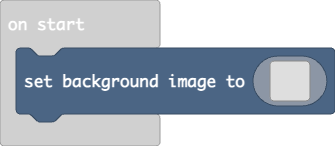
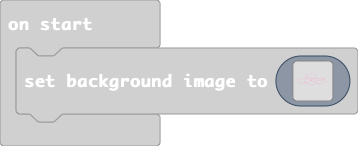
Update main.blocks, main.ts

diff --git a/main.ts b/main.ts
@@ -22,60 +22,60 @@ scene.setBackgroundImage(img`
     ................................................................................................................................................................
     ................................................................................................................................................................
     ................................................................................................................................................................
-    ................................................................................................................................................................
-    ................................................................................................................................................................
-    ................................................................................................................................................................
-    ................................................................................................................................................................
-    ................................................................................................................................................................
-    ................................................................................................................................................................
-    ................................................................................................................................................................
-    ................................................................................................................................................................
-    ................................................................................................................................................................
-    ................................................................................................................................................................
-    ................................................................................................................................................................
-    ................................................................................................................................................................
-    ................................................................................................................................................................
-    ................................................................................................................................................................
-    ................................................................................................................................................................
-    ................................................................................................................................................................
-    ................................................................................................................................................................
-    ................................................................................................................................................................
-    ................................................................................................................................................................
-    ................................................................................................................................................................
-    ................................................................................................................................................................
-    ................................................................................................................................................................
-    ................................................................................................................................................................
-    ................................................................................................................................................................
-    ................................................................................................................................................................
-    ................................................................................................................................................................
-    ................................................................................................................................................................
-    ................................................................................................................................................................
-    ................................................................................................................................................................
-    ................................................................................................................................................................
-    ................................................................................................................................................................
-    ................................................................................................................................................................
-    ................................................................................................................................................................
-    ................................................................................................................................................................
-    ................................................................................................................................................................
-    ................................................................................................................................................................
-    ................................................................................................................................................................
-    ................................................................................................................................................................
-    ................................................................................................................................................................
-    ................................................................................................................................................................
-    ................................................................................................................................................................
-    ................................................................................................................................................................
-    ................................................................................................................................................................
-    ................................................................................................................................................................
-    ................................................................................................................................................................
-    ................................................................................................................................................................
-    ................................................................................................................................................................
-    ................................................................................................................................................................
-    ................................................................................................................................................................
-    ................................................................................................................................................................
-    ................................................................................................................................................................
-    ................................................................................................................................................................
-    ................................................................................................................................................................
-    ................................................................................................................................................................
+    ...........................................................333333333333333333...................................................................................
+    ........................................3................33..................33333..............................................................................
+    ........................................3...............3.........................33............................................................................
+    .........................................3.............3............................33..........................................................................
+    ..........................................3...........3...............................3.........................................................................
+    ..........................................3..........3.................................33.......................................................................
+    ...........................................3........3....................................33.....................................................................
+    ...........................................3.......3.......................................3....................................................................
+    ............................................3......3........................................3...................................................................
+    .............................................3....3..........................................3..................................................................
+    ..............................................3..3............................................3.................................................................
+    ...............................................3.3.............................................3................................................................
+    ................................................3...............................................3...............................................................
+    ...............................................3.3..............................................3...............................................................
+    ...............................................3..3..............................................3..............................................................
+    ..............................................3....33............................................3..............................................................
+    ..............................................3......33..........................................33.............................................................
+    .............................................3.........33........................................3..............................................................
+    .............................................3...........33.....................................3...............................................................
+    ............................................3..............33.................................33................................................................
+    ............................................3................33..............................3..................................................................
+    ...........................................3...................333.........................33...................................................................
+    ...........................................3......................33333.................333.....................................................................
+    ....................................33333333333333333333333333.........3333333333333333333333333333333333.............33333333333333333333333...................
+    ...........................333333333......3...................333333...........333333....................3333333333333.......................33.................
+    .....................333333...............3.........................333333.3333............................3333..33333.......................3..................
+    .................3333....................3...............................3333..........................3333...........333...................3...................
+    .............3333........................3.............................33....3......................333..................3333..............3....................
+    .........3333............................3...........................33.......3...................33.........................333.........33.....................
+    ......333...............................3...........................3........3..................33..............................333....33.......................
+    ......3.................................3.........................33........3.................33...................................3333.........................
+    .......3................................3........................3.........3................33.................................3333..333........................
+    .......3...............................3........................3..........3..............33...............................3333.........33......................
+    .......3...............................3........................3........33..............3.............................3333...............33....................
+    ........3..............................3.......................3........3...............3........................333333.....................33..................
+    ........3.............................3.........................33333.33...............3....................33333.............................33................
+    .........3............................3.............................333333333333.......3........333333333333....................................3...............
+    .........3...........................3............................33............3333333333333333.................................................3..............
+    .........3...........................3..........................33......................3........................................................3..............
+    ..........3..........................3.......................333.........................3.......................................................3..............
+    ..........3..........................3.....................33............................3.....................................................33...............
+    ...........3........................3...................333...............................3...................................................3.................
+    ...........3........................3................333...................................3................................................33..................
+    ............3.......................3..............33.......................................3.............................................33....................
+    ............3.......................3.........33333..........................................33.........................................33......................
+    ............3.......................3333333333.................................................3.....................................333........................
+    .............3..................................................................................33...............................3333...........................
+    .............3....................................................................................3.........................33333...............................
+    ..............33333................................................................................33................3333333....................................
+    ...................3333333333........................................................................33.......3333333...........................................
+    .............................3333333333.............................................................3333333333..................................................
+    .......................................3333333333333333333333.........................33333333333333.....333....................................................
+    .............................................................3333333333333333333333333......................33333...............................................
+    .................................................................................................................3..............................................
     ................................................................................................................................................................
     ................................................................................................................................................................
     ................................................................................................................................................................
